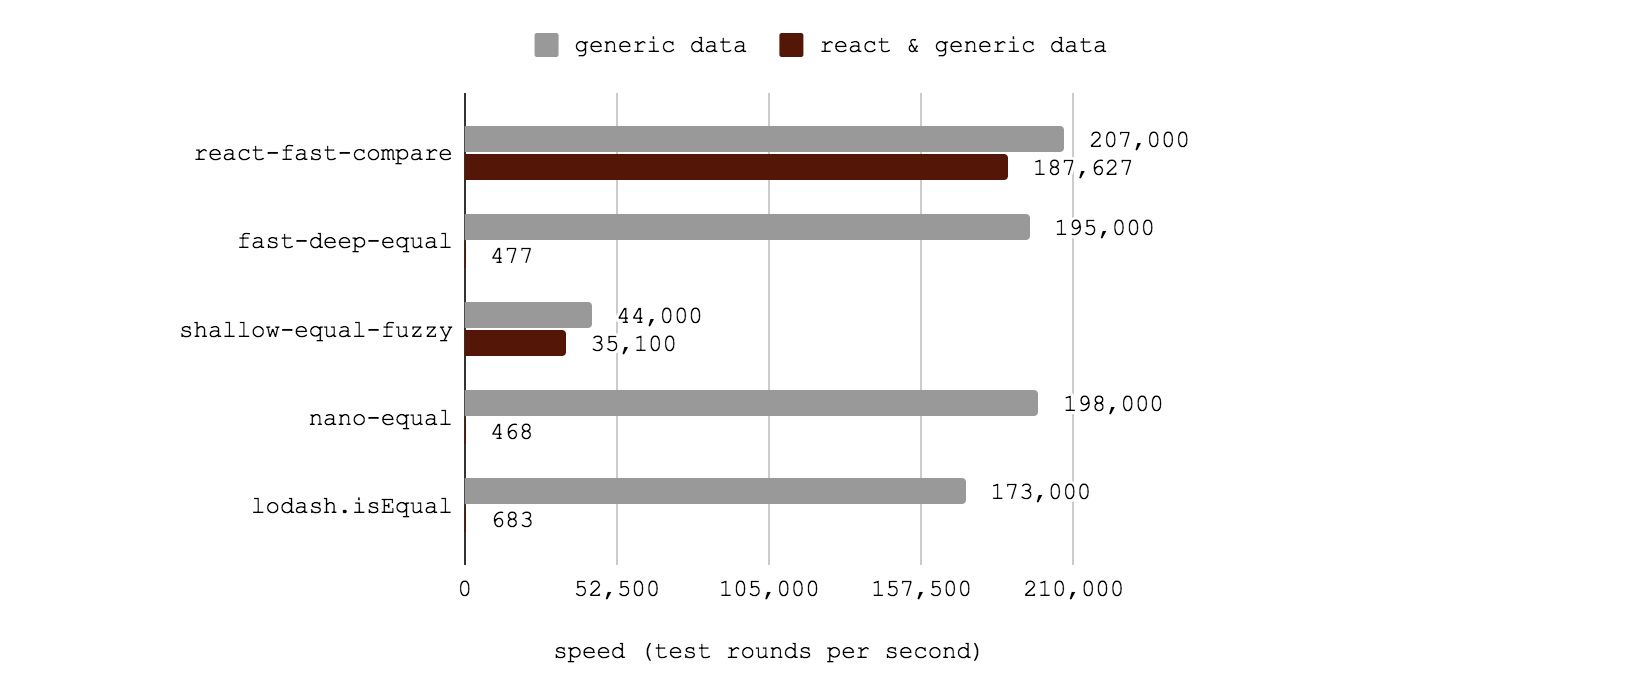
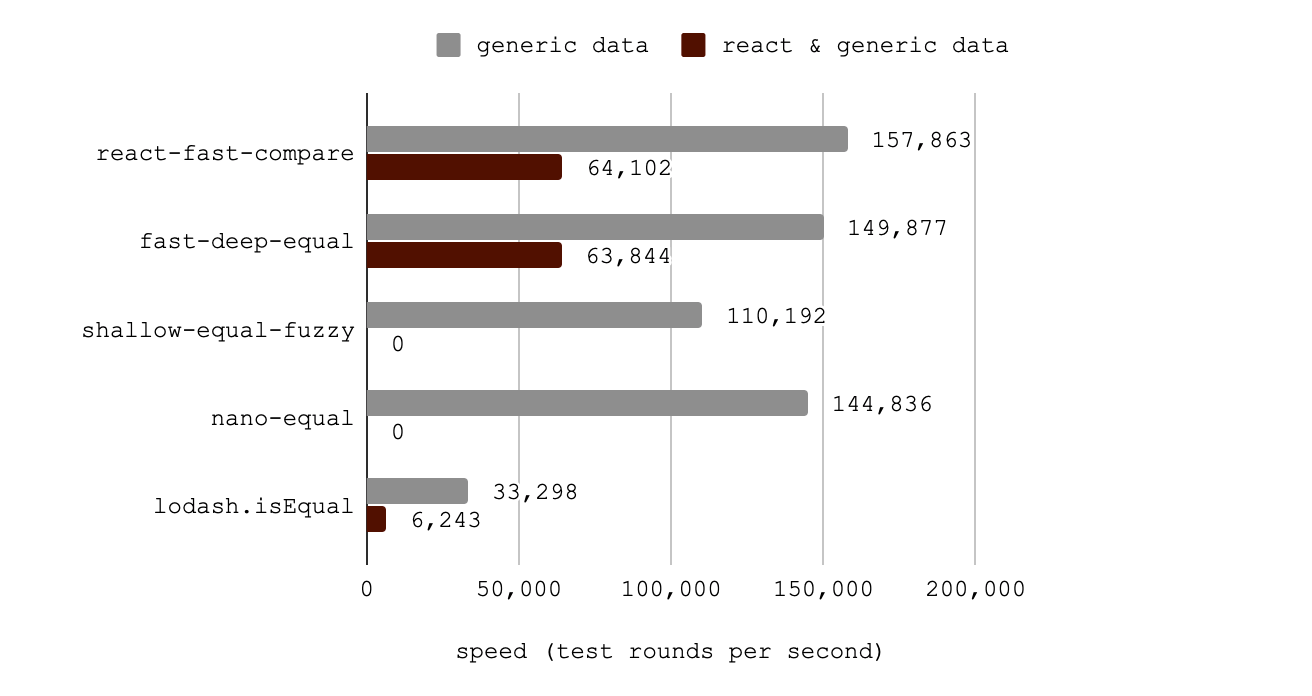
Documentation/v3 (#55)
* prettier on README

* typo fixes

* update benchmarking graphic

diff --git a/README.md b/README.md
@@ -7,12 +7,10 @@
 [![npm version][npm_img]][npm_site]
 [![Maintenance Status][maintenance-image]](#maintenance-status)
 
-
 The fastest deep equal comparison for React. Really fast general-purpose deep comparison.
-Great for`shouldComponentUpdate`. This is a fork of the brilliant
+Great for `shouldComponentUpdate`. This is a fork of the brilliant
 [fast-deep-equal](https://github.com/epoberezkin/fast-deep-equal) with some
 extra handling for React.
-
 
 ![benchmark chart](assets/benchmarking.png "benchmarking chart")
 
@@ -28,12 +26,12 @@ $ npm install react-fast-compare
 
 ## Highlights
 
-* ES5 compatible; works in node.js (0.10+) and browsers (IE9+)
-* deeply compares any value (besides objects with circular references)
-* handles React-specific circular references, like elements
-* checks equality Date and RegExp objects
-* should as fast as [fast-deep-equal](https://github.com/epoberezkin/fast-deep-equal) via a single unified library, and with added guardrails for circular references.
-* small: under 700 bytes minified+gzipped
+- ES5 compatible; works in node.js (0.10+) and browsers (IE9+)
+- deeply compares any value (besides objects with circular references)
+- handles React-specific circular references, like elements
+- checks equality Date and RegExp objects
+- should as fast as [fast-deep-equal](https://github.com/epoberezkin/fast-deep-equal) via a single unified library, and with added guardrails for circular references.
+- small: under 700 bytes minified+gzipped
 
 ## Usage
 
@@ -107,8 +105,8 @@ lodash.isEqual x 6,243 ops/sec ±0.72% (90 runs sampled)
   fastest: react-fast-compare,fast-deep-equal
 ```
 
-Two of these packages cannot handle comparing React elements (which are
-circular): `nano-equal` and `shallow-equal-fuzzy`.
+Two of these packages cannot handle comparing React elements, because they
+contain circular reference: `nano-equal` and `shallow-equal-fuzzy`.
 
 ### Running Benchmarks
 
@@ -123,8 +121,8 @@ react-fast-compare@3 tracks fast-deep-equal@3.1.1
 
 Now that `fast-deep-equal` has separate es5, es6, and es6 + React entry points, the main differences with this library are:
 
-* `try/catch` guardrails for stack overflows from undetected circular references.
-* A single unified entry point for **all** uses. No matter what your target application is, `import equal fro 'react-fast-compare'` just works.
+- `try/catch` guardrails for stack overflows from undetected circular references.
+- A single unified entry point for **all** uses. No matter what your target application is, `import equal from 'react-fast-compare'` just works.
 
 ## License
 
